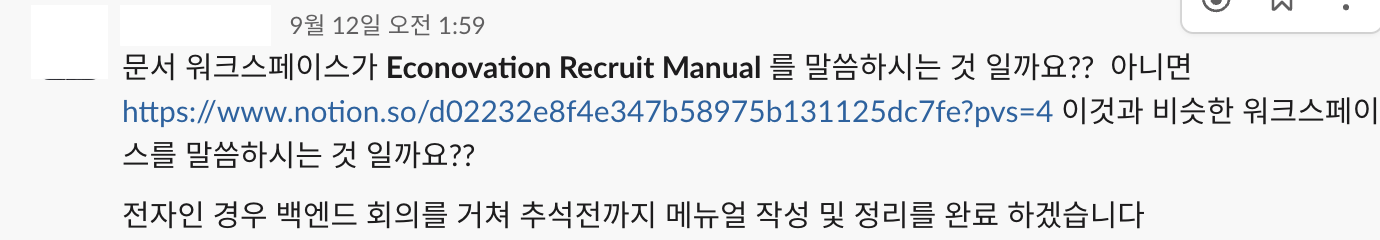
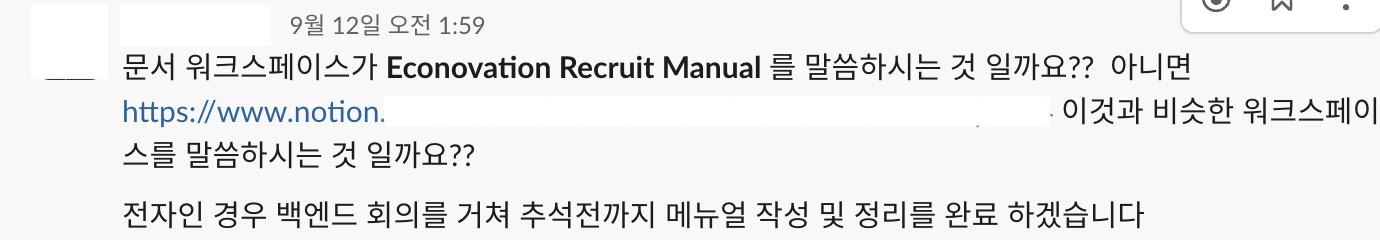
docs: 테스트 코드의 중요성 글 작성

Changed region(s): [[0.2804, 0.4083, 0.779, 0.525]]

diff --git a/_posts/importanceOfTest.md b/_posts/importanceOfTest.md
@@ -1,0 +1,299 @@
+---
+title: '[test-code] 테스트 코드의 중요성 _ 좋은 코드'
+thumbnail: '/assets/blog/importanceOfTest/thumbnail.png'
+description: '테스트 코드과 좋은 코드의 연관성에 대한 개인적인 생각을 정리해보았습니다.'
+date: '2024년 8월 3일'
+tags: '회고 2024'
+timeStamps : 1722672000
+---
+
+# 좋은 코드?
+
+사실 좋은 코드에 대해서 정답은 없다. 작성된 코드에 대한 적절한 당위성이 뒷받침 된다면 어느 코드는 해당 상황에서 “그렇게 쓰여야만 하는 코드”였을 것이다. 즉 해당 상황에서 해당 코드가 정답이었을 것이다. 이러한 상황은 일반화 할 수 없을 정도로 다양할 것이고, 이에 대해서 명확히 어떤 코드가 정답이라고 할 수 없다.
+
+다만 많은 개발자들이 잘 작성된 코드를 이야기할 때 공통적으로 이야기 하는 점들이 존재한다. 
+
+- 가독성: 코드가 명확하고 이해하기 쉬워야 합니다. 복잡한 로직도 잘 구조화되어 있으면 이해하기 쉽습니다.
+- 유지보수성: 쉽게 수정하고 확장할 수 있어야 합니다. 이는 모듈화, 낮은 결합도, 높은 응집도와 연관됩니다.
+- 효율성: 자원을 효율적으로 사용하고 성능이 좋아야 합니다.
+- 신뢰성: 예상대로 작동하며 에러 처리가 잘 되어 있어야 합니다.
+- 테스트 용이성: 단위 테스트와 통합 테스트를 쉽게 작성할 수 있어야 합니다.
+- 재사용성: 코드의 일부를 다른 곳에서도 쉽게 사용할 수 있어야 합니다.
+- 일관성: 코딩 스타일과 패턴이 일관되어야 합니다.
+- 문서화: 필요한 경우 주석이나 문서를 통해 코드의 의도와 동작을 설명해야 합니다.
+- 보안성: 보안 취약점이 없어야 합니다.
+- 확장성: 미래의 요구사항 변화에 쉽게 대응할 수 있어야 합니다.
+
+…
+
+다양한 기준이 존재하겠지만 위의 대부분의 좋은 코드의 특징들은 “테스트가 용이한 코드” 라는 키워드에 부합한다고 생각한다. 
+
+테스트가 용이하다는 것은 관심사별 모듈화가 잘 되어있고, 이로 인하여 가독성, 유지보수성, 신뢰성, 재사용성, 확장성이 있는 코드가 된다. 또한 테스트 코드는 하나의 문서화의 역할까지 해주기에, 정확히  이렇다 라고 정할 수는 없어도 테스트가 용이한 코드는 좋은 코드다 라고도 할 수 있을 것이다. 
+
+# 어떤 코드가 테스트를 짜는데 편할까?
+
+이 주제에 대해서 논하기 전에 먼저 아래의 코드의 테스트 코드를 작성한다고 생각해보자.
+
+```jsx
+const MovieListViewer = () => {
+  const [ response, setResponse] = useState({
+  	loading: true,
+    error: null,
+    movies: []
+  });
+
+  useEffect(() => {
+    fetch('/api/movielist")
+     .then(...)
+  },[])
+
+  if (response.loading) {
+    return <LoadingSpinner />}
+
+  if (response.error) {
+    return <ErrorPage error={response.error} />}
+
+  return (
+    <div>
+      {response.movies.map(...)}
+    </div>)
+}
+```
+
+어떤 기능들이 존재하고, 어떤 것을을 목(mock)으로 만들어 사용해야 할까? 
+
+일단 기능을 먼저 나열해보자면..
+
+- 서버의 상태를 저장할 state를 선언한다.
+- 렌더링 이후 /api/movielist 로 요청을 보낸다.
+- 응답 이전에는 loading이 true이며, 응답 받은 이후에는 loading이 false, 그리고 error나 movies값이 적절히 들어있어야 한다.
+- ui의 경우 서버의 상태에 따라서 에러, 로딩, 요청 성공의 경우에 맞추어 따로따로 렌더링이 된다.
+
+이 기능에 대해서 테스트 케이스를 만들어 보면, fetch로 부터 받아오는 값에 따라서 상태값이 적절히 변경이 되어상태값에 따라서 ui가 적절하게 보여지는지를 테스트 해야 한다. 하지만 이는 온전히 우리의 손으로 해결할 수 없는 위치에 존재한다. 컴포넌트 내부에 서버 요청 로직이 그대로 박혀 있다 보니까 서버의 상태나 반환값에 대해서 조절할 수 없다. 
+
+즉 서버에서 반환되는 값에 따라서 동일한 로직, 동일한 테스트에서 성공할수도, 실패할수도 있게 된다. 
+
+이를 테스트 하려면 http요청 자체를 가로채가는 MSW와 같은 라이브러리를 사용해야만 할 것이다. 하지만 이 또한 테스트에 의존성이 생기므로 좋은 방법이 아닐 수 있다.
+
+> ⚠ 최근에는 msw를 사용하여 api 로직 자체를 테스트 하기도 한다!
+> 
+
+우리가 테스트 과정에서, 해당 로직의 결과를 관리하기 위해서는 목으로 만들 수 있는지에 대해서 생각해볼 필요가 있다. 
+
+## 테스트가 용이하게 변경해보기
+
+그렇다면 이러한 로직을 테스트가 용이하게 변경하려면 어떻게 해야 할까? 
+
+간단히 관심사별로, 혹은 테스트 하고싶은 기능 별로 코드를 분리해주는 방식을 취할 수 있을 것 같다. 
+
+우선 서버 요청 로직이 제대로 동작하는지를 테스트 할 수 있도록 이를 따로 모듈화 해줄 수 있다.
+
+```jsx
+// api.js
+export const fetchMovieList = () => fetch('/api/movielist').then(res => res.json());
+```
+
+그리고 서버 요청 결과값에 대해서 올바르게 상태값을 저장하는 로직을 테스트 해볼 수 있도록 또 다른 모듈을 두게 되었다. 
+
+```jsx
+// useMovieList.js
+import { useState, useEffect } from 'react';
+import { fetchMovieList } from './api';
+
+export const useMovieList = (fetchFunction = fetchMovieList) => {
+  const [loading, setLoading] = useState(true);
+  const [error, setError] = useState(null);
+  const [movies, setMovies] = useState([]);
+
+  useEffect(() => {
+    const loadMovies = async () => {
+      try {
+        setLoading(true);
+        const data = await fetchFunction();
+        setMovies(data);
+      } catch (err) {
+        setError(err);
+      } finally {
+        setLoading(false);
+      }
+    };
+    loadMovies();
+  }, [fetchFunction]);
+
+  return { loading, error, movies };
+};
+```
+
+여기서 각 모듈(api 로직, 서버 상태 관리 로직)은 각기 다른 테스트를 해주어야 하므로, 목 함수를 넣어줄 수 있도록 api 로직을 함수의 인자로서(props로서) 받아서 이를 사용하도록 하였다. 
+
+테스트를 할 때에는 이렇게 목함수를 주입해줄 수 있다. 
+
+```jsx
+// useMovieList.test.js
+import { renderHook, act } from '@testing-library/react-hooks';
+import { useMovieList } from './useMovieList';
+
+describe('useMovieList', () => {
+  it('성공적으로 영화를 불러옵니다', async () => {
+    const mockMovies = [{ id: 1, title: '인셉션' }, { id: 2, title: '인터스텔라' }];
+    const mockFetchFunction = jest.fn().mockResolvedValue(mockMovies);
+
+    const { result, waitForNextUpdate } = renderHook(() => useMovieList(mockFetchFunction));
+
+    await waitForNextUpdate();
+
+    expect(result.current.loading).toBe(false);
+    expect(result.current.error).toBe(null);
+    expect(result.current.movies).toEqual(mockMovies);
+  });
+})
+```
+
+- 전체 테스트 코드
+    
+    ```jsx
+    // useMovieList.test.js
+    import { renderHook, act } from '@testing-library/react-hooks';
+    import { useMovieList } from './useMovieList';
+    
+    describe('useMovieList', () => {
+      it('초기 상태를 올바르게 설정합니다', () => {
+        const { result } = renderHook(() => useMovieList());
+        
+        expect(result.current.loading).toBe(true);
+        expect(result.current.error).toBe(null);
+        expect(result.current.movies).toEqual([]);
+      });
+    
+      it('성공적으로 영화를 불러옵니다', async () => {
+        const mockMovies = [{ id: 1, title: '인셉션' }, { id: 2, title: '인터스텔라' }];
+        const mockFetchFunction = jest.fn().mockResolvedValue(mockMovies);
+    
+        const { result, waitForNextUpdate } = renderHook(() => useMovieList(mockFetchFunction));
+    
+        await waitForNextUpdate();
+    
+        expect(result.current.loading).toBe(false);
+        expect(result.current.error).toBe(null);
+        expect(result.current.movies).toEqual(mockMovies);
+      });
+    
+      it('오류 발생 시 에러 상태를 설정합니다', async () => {
+        const mockError = new Error('API 오류');
+        const mockFetchFunction = jest.fn().mockRejectedValue(mockError);
+    
+        const { result, waitForNextUpdate } = renderHook(() => useMovieList(mockFetchFunction));
+    
+        await waitForNextUpdate();
+    
+        expect(result.current.loading).toBe(false);
+        expect(result.current.error).toBe(mockError);
+        expect(result.current.movies).toEqual([]);
+      });
+    
+      it('fetchFunction이 변경되면 다시 데이터를 불러옵니다', async () => {
+        const mockMovies1 = [{ id: 1, title: '인셉션' }];
+        const mockMovies2 = [{ id: 2, title: '인터스텔라' }];
+        const mockFetchFunction1 = jest.fn().mockResolvedValue(mockMovies1);
+        const mockFetchFunction2 = jest.fn().mockResolvedValue(mockMovies2);
+    
+        const { result, waitForNextUpdate, rerender } = renderHook(
+          ({ fetchFunction }) => useMovieList(fetchFunction),
+          { initialProps: { fetchFunction: mockFetchFunction1 } }
+        );
+    
+        await waitForNextUpdate();
+    
+        expect(result.current.movies).toEqual(mockMovies1);
+    
+        rerender({ fetchFunction: mockFetchFunction2 });
+    
+        await waitForNextUpdate();
+    
+        expect(result.current.movies).toEqual(mockMovies2);
+      });
+    });
+    ```
+    
+
+서버의 상태에 따라서 다르게 보여줘야 하는 ui 또한 테스트할 수 있도록 따로 모듈화 할 수 있다. 
+
+```jsx
+// MovieListViewer.js
+import React from 'react';
+import { useMovieList } from './useMovieList';
+import LoadingSpinner from './LoadingSpinner';
+import ErrorPage from './ErrorPage';
+
+const MovieListViewer = ({ fetchMovies = fetchMovieList }) => {
+  const { loading, error, movies } = useMovieList(fetchMovies);
+
+  if (loading) return <LoadingSpinner />;
+  if (error) return <ErrorPage error={error} />;
+
+  return (
+    <div>
+      {movies.map(movie => (
+        <div key={movie.id}>{movie.title}</div>
+      ))}
+    </div>
+  );
+};
+
+export default MovieListViewer;
+```
+
+이렇게 추상화 레벨을 3단계로 두니 테스트가 정말로 쉬워진 것을 볼 수 있다. 원하는 상태를 조작하여 주입해줄 수 있다.
+
+여기서 주목할 점은 우리의 관심사 외의 것들(예를 들어 UI 에서는 의존하는 상태값들을, 상태값은 의존하고있는 api 로직 및 결과를) 임의로 만들어 (mocking 하여) props나 인자로서 “주입” 한다는 점이다. 
+
+이렇게 작성하는 방법을 “*의존성 주입*”_aka.*DI* 이라고 한다. 
+
+# 의존성 주입(Dependency Injection)
+
+의존성 주입(Dependency Injection, DI)은 소프트웨어 설계 패턴 중 하나로, 객체 지향 프로그래밍에서 자주 사용되는 개념이다. 
+
+이전 설명에서 어느정도 느낄 수 있겠지만, 한 객체가 필요로 하는 다른 객체를 외부로부터 제공받는 방식을 말한다. 덕분에 해당 객체에서는 본인의 내부 로직에만 집중할 수 있게 된다. 해당 객체를 사용할 때 필요에 따라 맞는 객체를 주입해주면 된다. 
+
+의존성 주입이 가져다주는 장점은 아래와 같다. 
+
+- 결합도 감소:
+    - 객체가 자신의 의존성을 직접 생성하지 않고 외부에서 받아 사용합니다.
+    - 이로 인해 객체 간의 결합도가 낮아집니다.
+- 테스트 용이성:
+    - 실제 객체 대신 모의 객체(mock)를 주입하여 단위 테스트를 쉽게 수행할 수 있습니다.
+- 유연성과 확장성:
+    - 구현을 쉽게 변경할 수 있어 시스템의 유연성이 향상됩니다.
+    - 새로운 기능을 추가하거나 기존 기능을 수정하기 쉬워집니다.
+- 관심사의 분리:
+    - 객체는 자신의 주요 기능에만 집중할 수 있습니다.
+    - 의존성 관리는 외부(예: DI 컨테이너)에 위임됩니다.
+- 병렬 개발:
+    - 인터페이스가 정의되면 여러 개발자가 독립적으로 작업할 수 있습니다.
+
+하지만, 코드를 작성하는 입장에서 어느 것을 외부의 개념으로 볼지, 어느것을 내부의 개념으로 볼지에 대해서 헷갈릴 수 있다고 생각한다. 
+
+우리는 장점들 중에서 “테스트 용이성” 에 조금 더 집중해보면 이에 대한 기준을 명확히 할 수 있다. 
+
+이전 에제에서도 알 수 있듯 어떠한 기능을 테스트 하기 위하여 “무엇의 결과를 조작해야 하는지(무엇을 목으로 만들어야 하는지)” 를 생각해보면 된다. 
+
+그리고 이렇게 외부로 뺀 의존성들을 함수의 인자, 컴포넌트의 props로 전달해주도록 하면 된다. 
+
+자연스럽게 테스트는 용이해지고, 좋은 코드의 모습을 갖추게 될 것이다. 
+
+# 결론
+
+- 좋은 코드는 여러 기준이 존재하지만, 테스트의 용이성이 많은 부분을 차지한다.
+- 테스트를 용이하게 하기 위해서는, 테스트를 작성하고자 하는 기능이 테스트 되기 위하여 조작해야 하는(mock으로 만들 수 있는 ) 것들이 무엇이 있는지 생각해보아야 한다. 그리고 이를 목으로서 만들어 주입해줄 수 있는 코드로 만들어 주어야 한다.
+- 이를 “의존성 주입” 이라고 한다.
+- 결론적으로 이와 같은 방식으로 코드를 작성하게 되면 좋은 코드에 가까워지게 된다.
+
+> ⚠ 단 꼭 테스트가 용이하다고 좋은 코드라고 볼수는 없다. 맨 처음 이야기 했듯 좋은 코드는 명확히 무엇이라고 말할 수 없다. 테스트를 신경쓰게 되면 모듈화의 기준, 추상화의 기준이 조금 더 명확해지며 이에 따라 재사용성 및 확장성이 좋은 코드가 될 수 있다.
+> 
+
+---
+
+# 참고 자료
+
+- [https://velog.io/@jay/react-dependency-injection](https://velog.io/@jay/react-dependency-injection)
+- [https://martinfowler.com/articles/injection.html#FormsOfDependencyInjection](https://martinfowler.com/articles/injection.html#FormsOfDependencyInjection)
